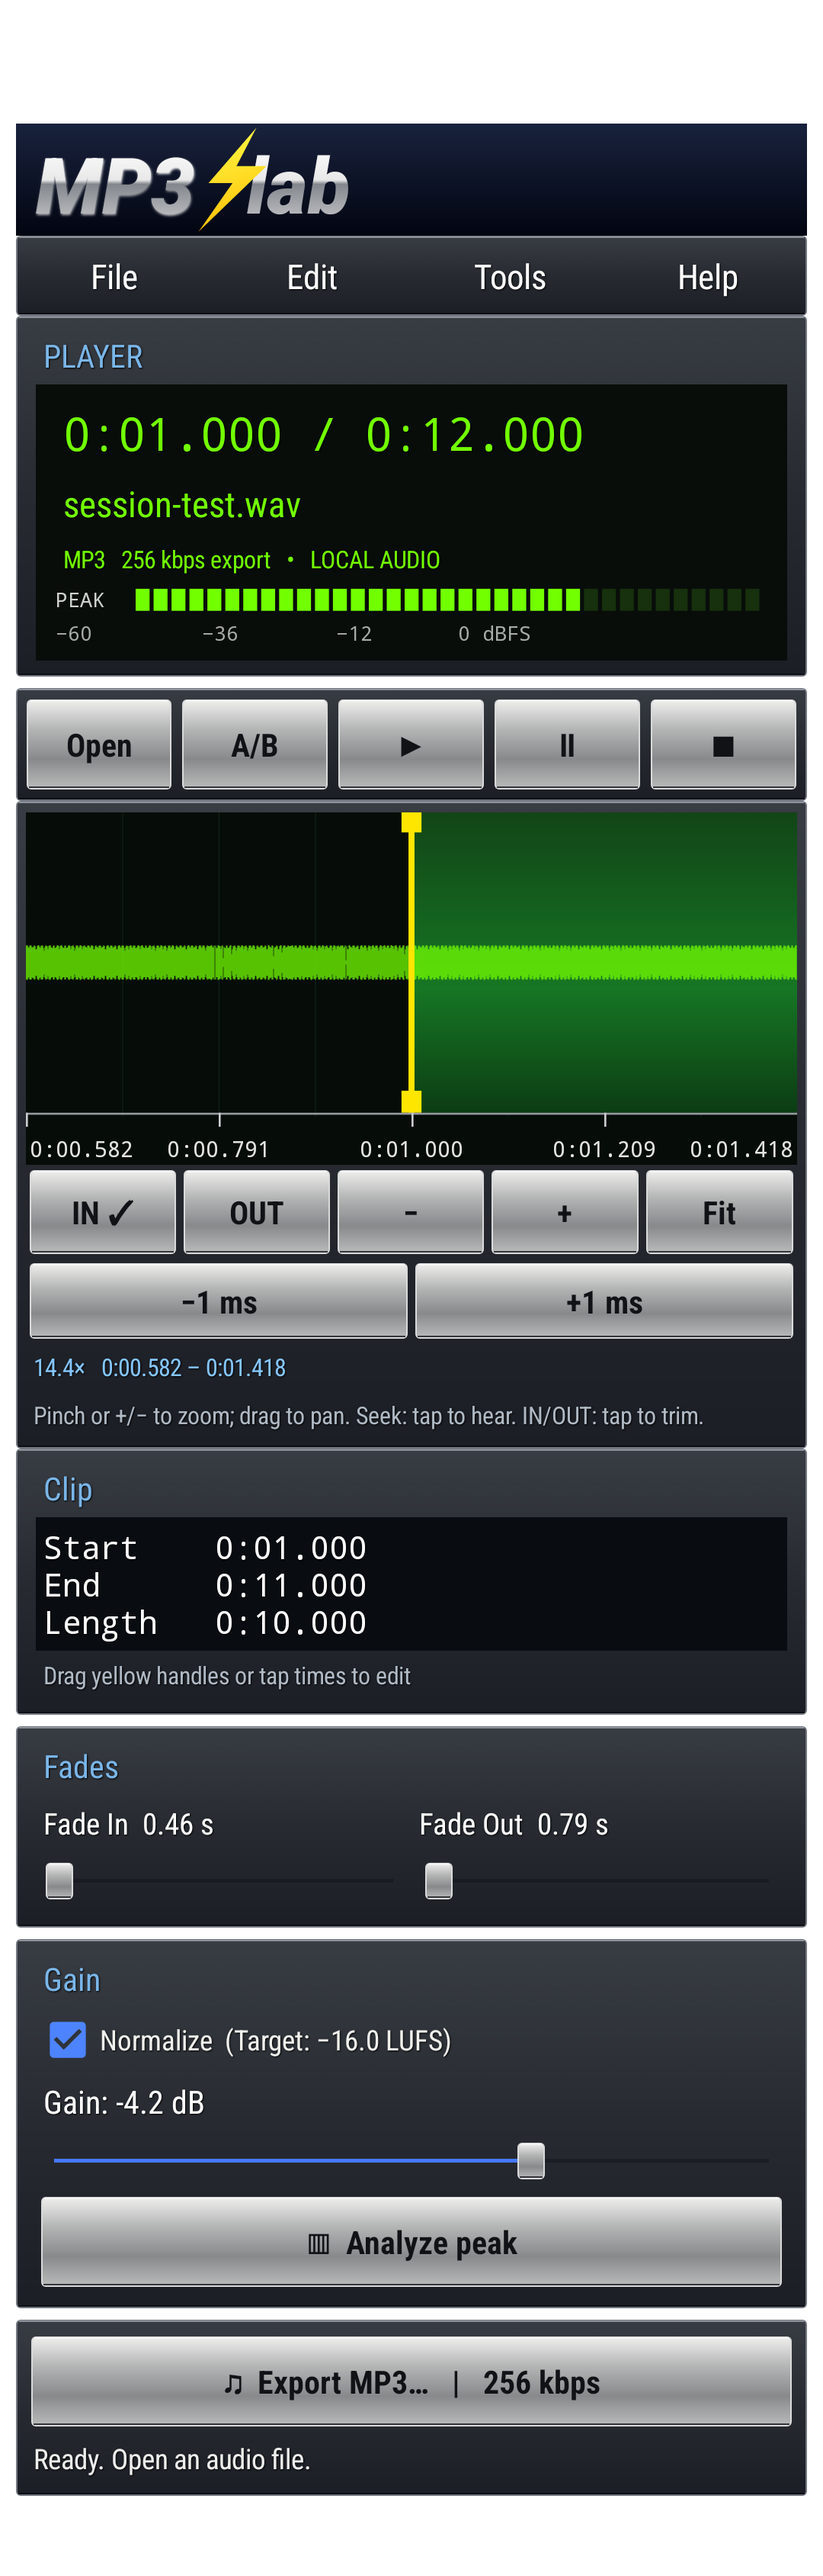
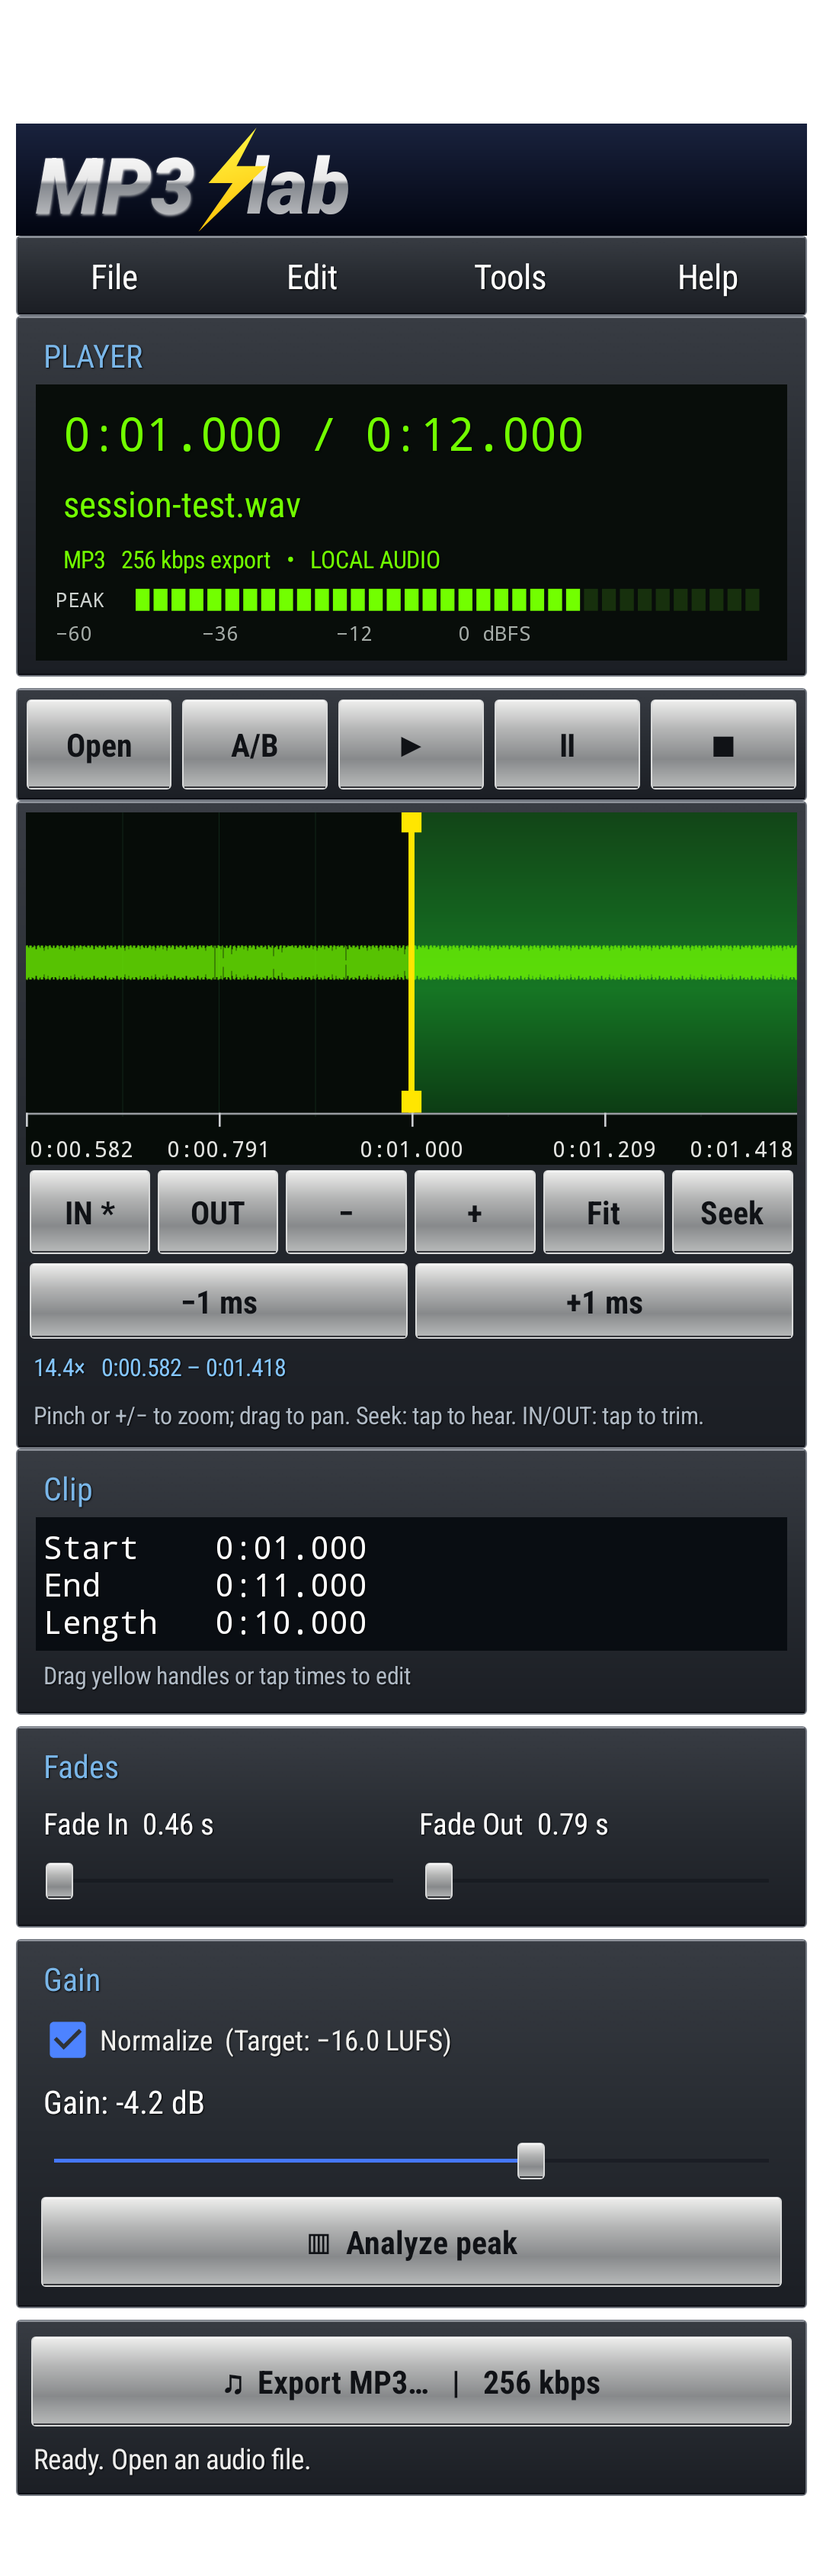
Expose and test waveform Seek mode button

diff --git a/android/app/src/androidTest/java/com/mp3lab/app/AudioEngineTest.java b/android/app/src/androidTest/java/com/mp3lab/app/AudioEngineTest.java
@@ -83,7 +83,7 @@ public class AudioEngineTest {
                 deadline=android.os.SystemClock.uptimeMillis()+30000;
                 while(activity.busy&&android.os.SystemClock.uptimeMillis()<deadline)Thread.sleep(50);
                 InstrumentationRegistry.getInstrumentation().runOnMainSync(()->{
-                    assertNotNull(activity.player);activity.player.pause();activity.waveformView.placing=false;activity.waveformView.fit();
+                    assertNotNull(activity.player);activity.player.pause();assertNotNull("Seek mode must be visible",activity.seekTarget);activity.seekTarget.performClick();assertFalse(activity.waveformView.placing);activity.waveformView.fit();
                     Retro.Wave w=activity.waveformView;float x=w.getWidth()*4.0f/8,y=w.getHeight()*.4f;long now=android.os.SystemClock.uptimeMillis();
                     android.view.MotionEvent down=android.view.MotionEvent.obtain(now,now,0,x,y,0),up=android.view.MotionEvent.obtain(now,now+20,1,x,y,0);
                     w.onTouchEvent(down);w.onTouchEvent(up);down.recycle();up.recycle();

diff --git a/android/app/src/main/java/com/mp3lab/app/RetroLayout.java b/android/app/src/main/java/com/mp3lab/app/RetroLayout.java
@@ -40,7 +40,7 @@ final class RetroLayout {
         a.waveformView.viewChanged=()->{a.refreshZoom();a.scheduleSessionSave();};
         LinearLayout waveBox=a.column();waveBox.setPadding(a.dp(5),a.dp(6),a.dp(5),a.dp(5));waveBox.setBackground(Retro.plate(false));
         waveBox.addView(a.waveformView,new LinearLayout.LayoutParams(-1,a.dp(176)));
-        LinearLayout zoomControls=new LinearLayout(a);String[] zoomTitles={"IN","OUT","−","+","Fit"};
+        LinearLayout zoomControls=new LinearLayout(a);String[] zoomTitles={"IN","OUT","−","+","Fit","Seek"};
         for(int n=0;n<zoomTitles.length;n++){
             final int which=n;Button button=new Button(a);button.setText(zoomTitles[n]);Retro.button(button);
             button.setContentDescription(new String[]{"Select and focus IN point","Select and focus OUT point","Zoom out","Zoom in","Show whole track","Tap waveform to seek playback"}[n]);

diff --git a/android/app/src/main/java/com/mp3lab/app/MainActivity.java b/android/app/src/main/java/com/mp3lab/app/MainActivity.java
@@ -77,7 +77,7 @@ public class MainActivity extends Activity {
     void scheduleSessionSave(){handler.removeCallbacks(checkpoint);if(input!=null)handler.postDelayed(checkpoint,180);}
     void refreshZoom(){
         if(zoomLabel!=null)zoomLabel.setText(String.format(Locale.US,"%.1f×   %s – %s",waveformView.zoom,time(waveformView.viewStart),time(waveformView.visibleEnd())));
-        if(inTarget!=null){inTarget.setText(waveformView.targetStart?"IN ✓":"IN");outTarget.setText(waveformView.targetStart?"OUT":"OUT ✓");}
+        if(inTarget!=null){inTarget.setText(waveformView.placing&&waveformView.targetStart?"IN *":"IN");outTarget.setText(waveformView.placing&&!waveformView.targetStart?"OUT *":"OUT");seekTarget.setText(waveformView.placing?"Seek":"Seek *");}
     }
     String time(double s){
         int seconds=(int)Math.max(0,s);
